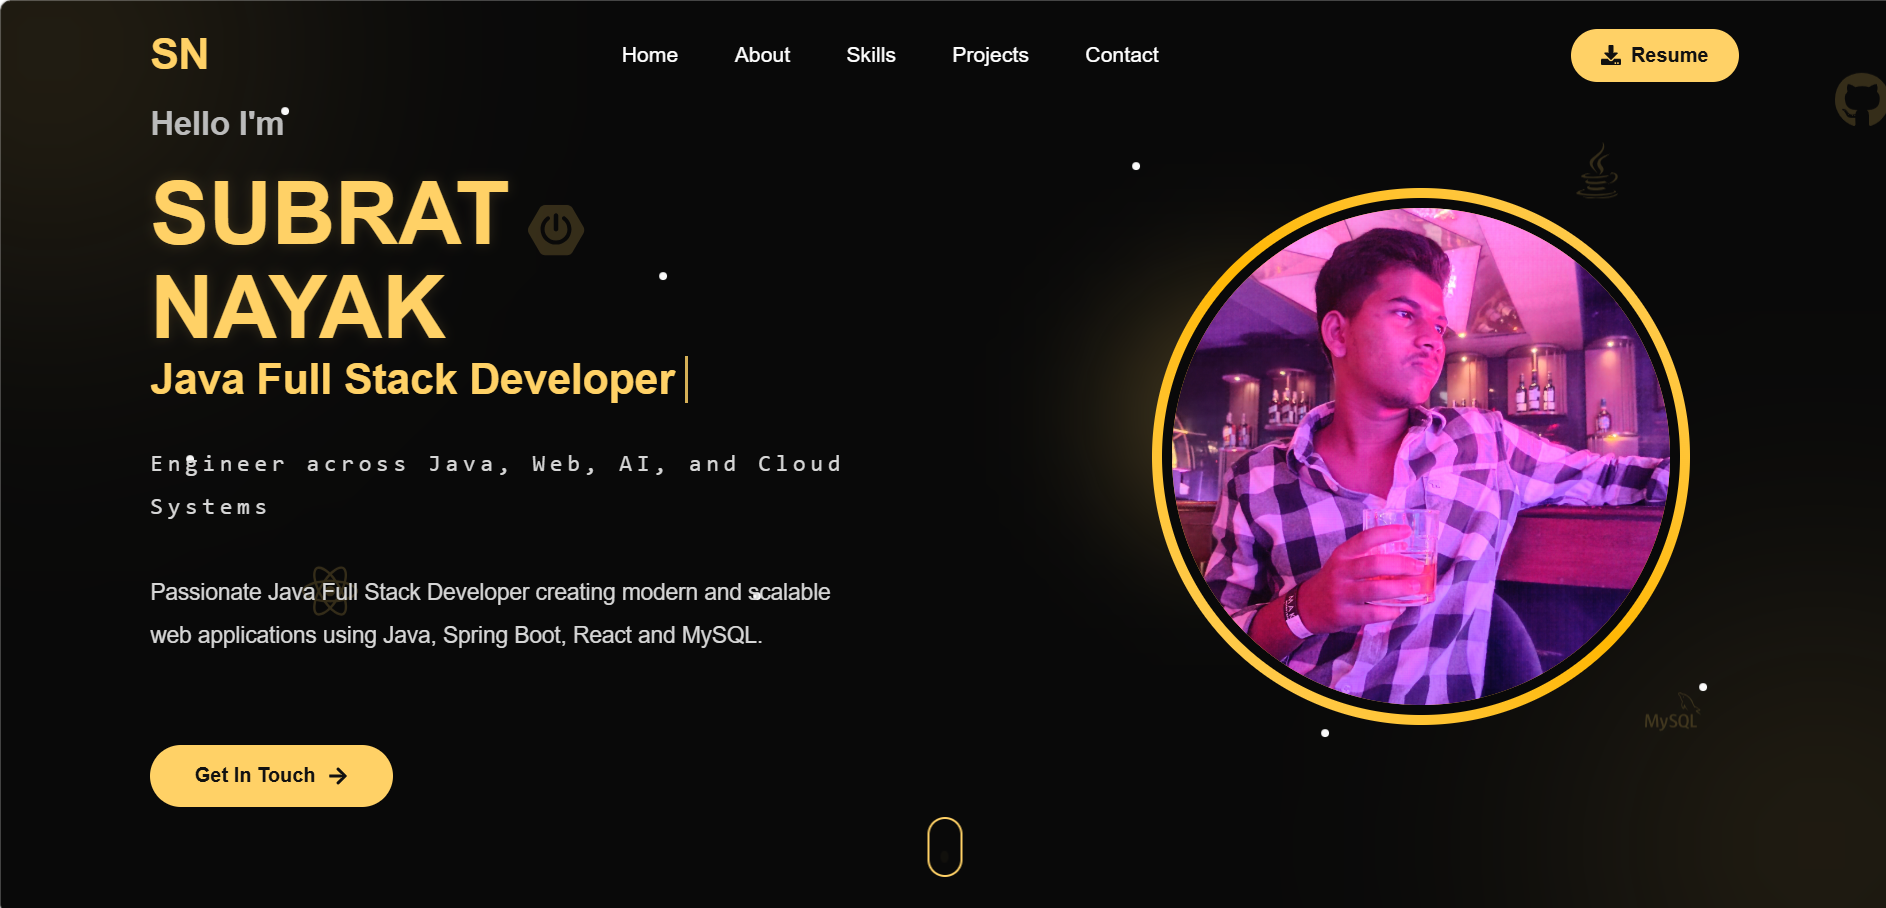
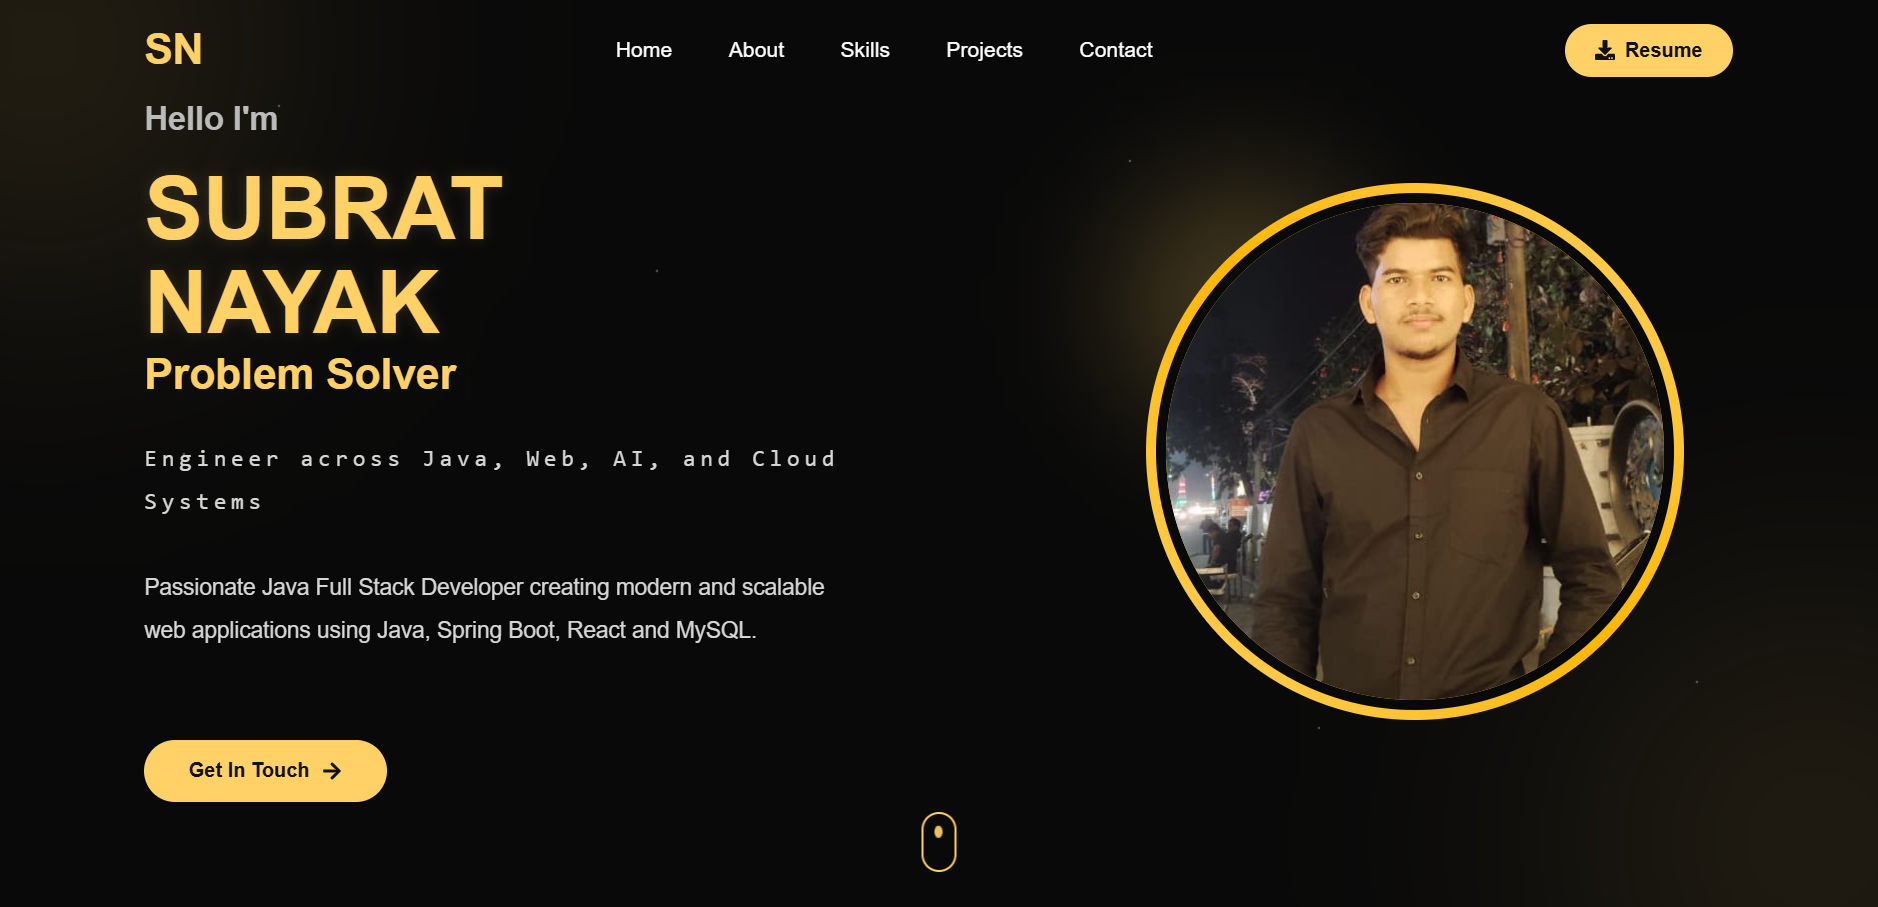
Update portfolio

diff --git a/protfolio/src/component/Project.jsx b/protfolio/src/component/Project.jsx
@@ -24,25 +24,26 @@ function Projects() {
                 "MySQL"
             ],
 
-            live: "#",
-            github: "#"
+            live: "https://bookmyshow-fullstack-fronted.onrender.com",
+            github: "https://github.com/Subrat37/bookmyshow-fullstack.git"
         },
 
         {
             number: "02",
-            title: "Movie REST API",
+            title: "Google Drive Clone",
             image: movie,
             description:
-                "Spring Boot REST API supporting CRUD operations, searching, updating and deleting movie records.",
+                "Developed a Google Drive-inspired cloud file storage application using Java, Spring Boot, and Microservices Architecture.",
 
             tech: [
                 "Java",
                 "Spring Boot",
-                "REST API"
+                "REST API",
+                "Microservices Architecture"
             ],
 
-            live: "#",
-            github: "#"
+            live: "https://google-drive-clone-ui.onrender.com",
+            github: "https://github.com/Subrat37/Google-Drive-Project.git"
         },
 
         {
@@ -58,8 +59,8 @@ function Projects() {
                 "JavaScript"
             ],
 
-            live: "#",
-            github: "#"
+            live: "https://subrat37.github.io/React_Portfolio/",
+            github: "https://github.com/Subrat37/React_Portfolio.git"
         }
 
     ];
